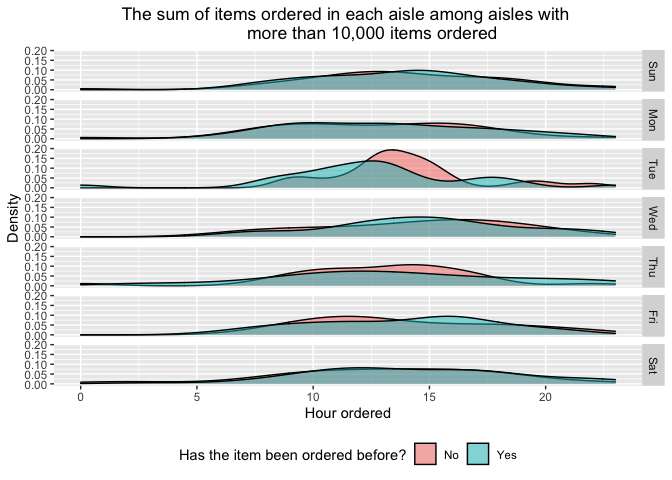
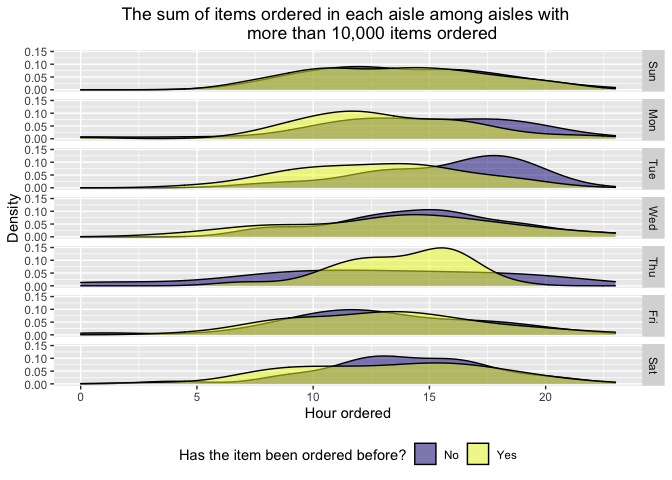
Updates to plots

diff --git a/p8105_hw3_jdr2191.md b/p8105_hw3_jdr2191.md
@@ -56,7 +56,8 @@ instacartreorders_df %>%
   labs(x = "Hour ordered", y = "Density") +
   guides(fill = guide_legend(title = "Has the item been ordered before?")) +
   ggtitle("The sum of items ordered in each aisle among aisles with 
-          more than 10,000 items ordered")
+          more than 10,000 items ordered") +
+  scale_fill_viridis_d(option = "C")
 ```
 
 ![](p8105_hw3_jdr2191_files/figure-gfm/exploratory%20analyses-1.png)<!-- -->
@@ -277,9 +278,8 @@ view(brfssexcellent_df2)
 
 brfssexcellent_df2 %>%
   ggplot(aes(x = year, y = meandatavalue)) + 
-  geom_line(aes(group = locationabbr, color = locationabbr)) +
-  geom_point(aes(group = locationabbr, color = locationabbr), size = .4) +
-  scale_fill_brewer() +
+  geom_line(aes(group = locationabbr, color = locationabbr), size = .9, alpha = .5) +
+  geom_point(aes(group = locationabbr, color = locationabbr), size = .4, alpha = .5) +
   labs(x = "Year", y = "Mean data value", col = "State")
 ```
 
@@ -438,18 +438,13 @@ accelplot = accel %>%
   ) %>%
   mutate(minute = as.numeric(minute))
 
-typeof(pull(accelplot, minute))
-```
-
-    ## [1] "double"
-
-``` r
 view(accelplot)
 
 accelplot %>%
   ggplot(aes(x = minute, y = activity, group = day)) + 
   geom_line(aes(group = day, color = day)) +
-  geom_point(aes(group = day, color = day), size = .4, alpha = .5)
+  geom_point(aes(group = day, color = day), size = .4, alpha = .5) +
+  labs(x = "Minute", y = "Total accelerometer activity", col = "Day of week")
 ```
 
 ![](p8105_hw3_jdr2191_files/figure-gfm/accelermoeter%20plot-1.png)<!-- -->
